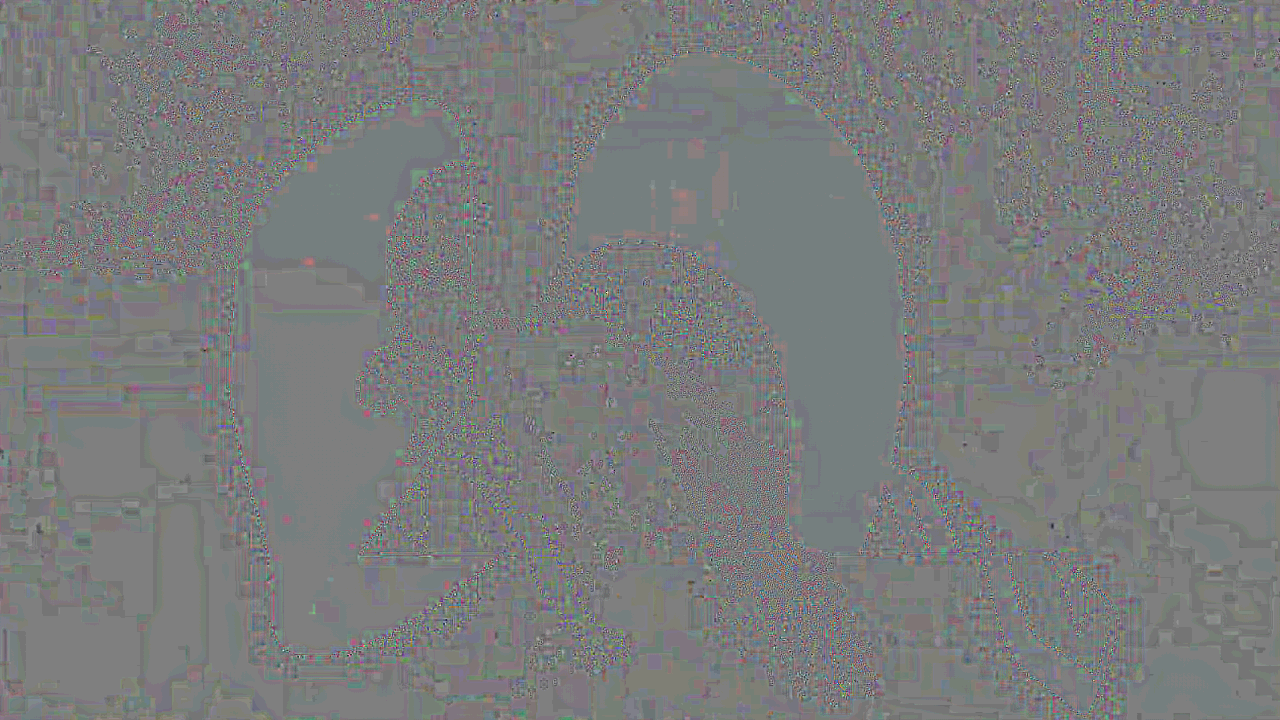
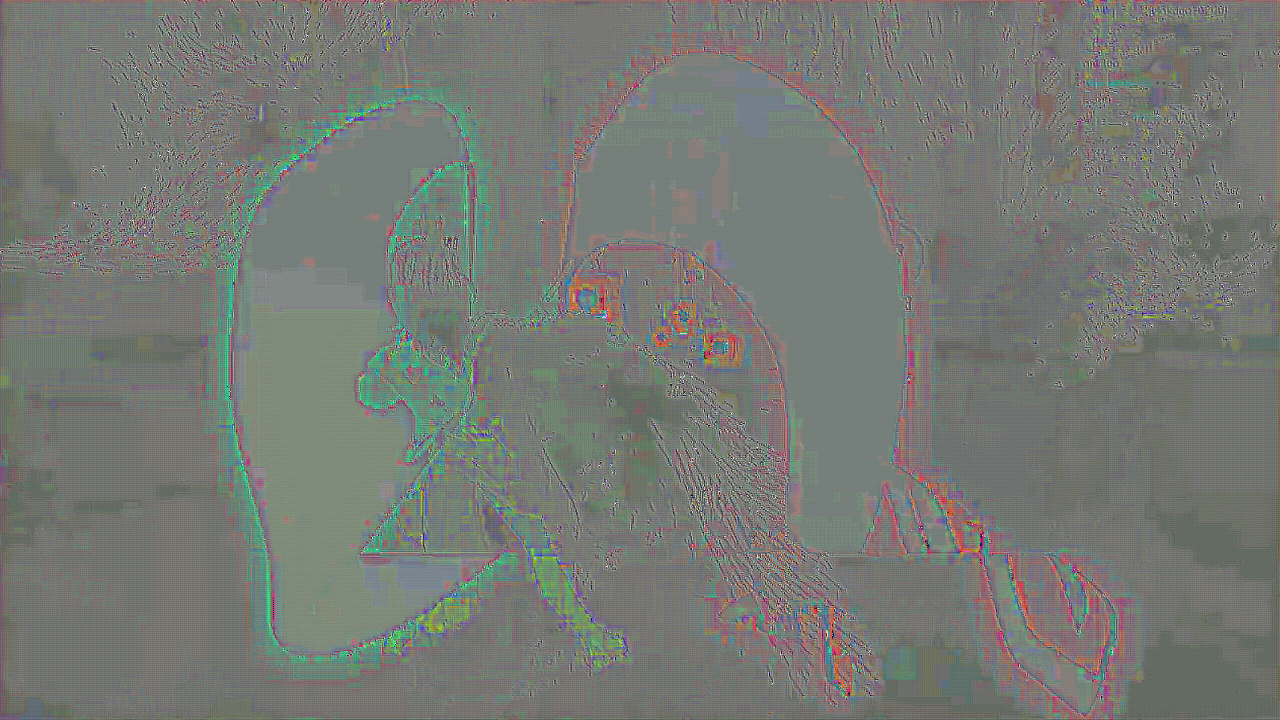
apply for pipeline

diff --git a/upscale/model/bsvd/factory.py b/upscale/model/bsvd/factory.py
@@ -17,7 +17,7 @@ class JitWrapper(nn.Module):
             args = [a.half() for a in args]
         return self.module(*args)
 
-def build_model(device=0, input_shape=(360, 640)):
+def __build_model(device=0, input_shape=(360, 640)):
     model = bsvd.BSVD(
         chns=[64,128,256], mid_ch=64, shift_input=False, 
         norm='none', interm_ch=64, act='relu6', 
@@ -113,6 +113,70 @@ def build_model(device=0, input_shape=(360, 640)):
     skip_repeat = True
     amp_enabled = False
     half_convert = False
+
+    return model
+
+def build_model(device=0, input_shape=(360, 640)):
+    import torch_tensorrt, os
+    import upscale.model.bsvd.model_volatile as bsvd_vol
+
+    torch_tensorrt.logging.set_reportable_log_level(torch_tensorrt.logging.Level.Warning)
+
+    H, W = input_shape
+    bsvd_vol.set_res((H, W))
+
+    model = bsvd_vol.BSVD(
+        chns=[64,128,256], mid_ch=64, shift_input=False, 
+        norm='none', interm_ch=64, act='relu6', 
+        pretrain_ckpt='./upscale/model/bsvd/bsvd-64.pth'
+    )
+    model = model.to(device).eval()
+
+    def jit(model, inp_shape=input_shape, save_path=None):
+        if os.path.exists(save_path):
+            return torch.jit.load(save_path)
+        else:
+            trt_model = torch_tensorrt.compile(model, 
+                inputs = [
+                    torch_tensorrt.Input(inp_shape, dtype=torch.half),
+                ],
+                enabled_precisions= { torch_tensorrt.dtype.half },
+                require_full_compilation = False,
+                min_block_size = 3,
+            )
+            if save_path is not None:
+                torch.jit.save(trt_model, save_path)
+            return trt_model
+    
+    def jit_bsvd(bsvd_model, image_shape=(720,1280)):
+        H, W = image_shape
+        F = 1
+        inp_shape = (1,F,4,H,W)
+
+        version = '0'
+        name = f'saves/models/bsvd_{version}_({F}x{H}x{W})'
+        
+        model = bsvd_model.half()
+        
+        model.temp1.inc = jit(model.temp1.inc, inp_shape=(1,4,H,W), save_path=name+'_t1inc.pth')
+        model.temp1.downc0 = jit(model.temp1.downc0, inp_shape=(1,64,H,W), save_path=name+'_t1d0.pth')
+        model.temp1.downc1 = jit(model.temp1.downc1, inp_shape=(1,128,H//2,W//2), save_path=name+'_t1d1.pth')
+        model.temp1.upc2 = jit(model.temp1.upc2, inp_shape=(1,256,H//4,W//4), save_path=name+'_t1u2.pth')
+        model.temp1.upc1 = jit(model.temp1.upc1, inp_shape=(1,128,H//2,W//2), save_path=name+'_t1u1.pth')
+        model.temp1.outc = jit(model.temp1.outc, inp_shape=(1,64,H,W), save_path=name+'_t1out.pth')
+
+        model.temp2.inc = jit(model.temp2.inc, inp_shape=(1,64,H,W), save_path=name+'_t2inc.pth')
+        model.temp2.downc0 = jit(model.temp2.downc0, inp_shape=(1,64,H,W), save_path=name+'_t2d0.pth')
+        model.temp2.downc1 = jit(model.temp2.downc1, inp_shape=(1,128,H//2,W//2), save_path=name+'_t2d1.pth')
+        model.temp2.upc2 = jit(model.temp2.upc2, inp_shape=(1,256,H//4,W//4), save_path=name+'_t2u2.pth')
+        model.temp2.upc1 = jit(model.temp2.upc1, inp_shape=(1,128,H//2,W//2), save_path=name+'_t2u1.pth')
+        model.temp2.outc = jit(model.temp2.outc, inp_shape=(1,64,H,W), save_path=name+'_t2out.pth')
+
+        return model
+    
+    model = JitWrapper(jit_bsvd(model, (H, W)), True)
+
+    torch_tensorrt.logging.set_reportable_log_level(torch_tensorrt.logging.Level.Warning)
 
     return model
 

diff --git a/upscale/fsrcnn_upscaler.py b/upscale/fsrcnn_upscaler.py
@@ -14,7 +14,7 @@ from .upscaler_base import BaseUpscalerService, UpscalerQueueEntry
 def log(*args, **kwargs):
     print(f"FsrcnnUpscalerService: {' '.join([str(a) for a in args])}", **kwargs)
 
-def blur_ker(channels=1, kernel_size = 3, sigma = 1):
+def blur_ker(channels=1, kernel_size = 3, sigma = 0.5):
     # Set these to whatever you want for your gaussian filter
 
     # Create a x, y coordinate grid of shape (kernel_size, kernel_size, 2)
@@ -112,11 +112,11 @@ class FsrcnnUpscalerService(BaseUpscalerService):
         ).eval()
         if self.denoising:
             self.denoise_model = build_denoise_model(
-                device=self.device
+                device=self.device, input_shape=self.lr_shape
             )
             self.denoise_blur = blur_ker().half().to(self.device)
-            self.denoise_sharpen = sharpen_ker(strength=0.01).half().to(self.device)
-            self.denoise_sharpen_hr = sharpen_ker(strength=0.05).half().to(self.device)
+            self.denoise_sharpen = sharpen_ker(strength=0.02).half().to(self.device)
+            self.denoise_sharpen_hr = sharpen_ker(strength=0.07).half().to(self.device)
         log('model loaded')
     
     def proc_cleanup(self):

diff --git a/sharkshark/pipeline.py b/sharkshark/pipeline.py
@@ -100,6 +100,8 @@ class TwitchUpscalerPostStreamer:
         print(f'TwitchUpscalerPostStreamer: streamed, idx: {entry.step}, took: {(time.time()-self.last_streamed)*1000:.1f}ms, frames[{len(entry.frames)},{entry.frames[0].shape}]')
         entry.profiler.set('upscaler.upscale.peritemms', (entry.profiler.data['upscaler.upscale'] / len(entry.frames))*1000)
         if (time.time()-self.last_reported) > 3.0:
+            entry.profiler.set('upscaler.inputq', self.upscaler.job_queue.qsize())
+            entry.profiler.set('streamer.inputq', self.streamer.job_queue.qsize())
             print(json.dumps(entry.profiler.data, indent=2))
             self.last_reported = time.time()
         self.last_streamed = time.time()
@@ -132,7 +134,7 @@ if __name__ == '__main__':
     # )
 
     pipeline = TwitchUpscalerPostStreamer(
-        url = TW_ZURURU, fps = 8, denoising=True, lr_level=3, quality='720p60', frame_skips=True, denoise_rate=1.0
+        url = 'https://www.twitch.tv/gosegugosegu', fps = 12, denoising=True, lr_level=3, quality='720p60', frame_skips=True, denoise_rate=2.0
     )
 
     # pipeline = TwitchUpscalerPostStreamer(

diff --git a/stream/streamer.py b/stream/streamer.py
@@ -90,7 +90,7 @@ class TwitchStreamer(BaseService):
                     else:
                         frame = torch.nn.functional.interpolate(frame, self.resolution, mode='bicubic')
                 if frame.device != 'cpu':
-                    frame = frame.cpu()
+                    frame = frame.to('cpu', non_blocking=True)
                 frame = frame.numpy().astype(np.uint8)
             if frame.shape != (*self.resolution, 3):
                 frame = cv2.resize(frame, dsize=(self.resolution[1], self.resolution[0]), interpolation=cv2.INTER_AREA)

diff --git a/twitchstream/outputvideo.py b/twitchstream/outputvideo.py
@@ -127,7 +127,7 @@ class TwitchOutputStream(object):
             '-r', '%d' % self.fps,
             '-b:v', bitrate,
             '-s', '%dx%d' % (self.width, self.height),
-            '-preset', 'medium', #'-tune', 'zerolatency',
+            '-preset', 'faster', #'-tune', 'zerolatency',
             '-crf', '16',
             '-pix_fmt', 'yuv420p',
             # '-force_key_frames', r'expr:gte(t,n_forced*2)',
